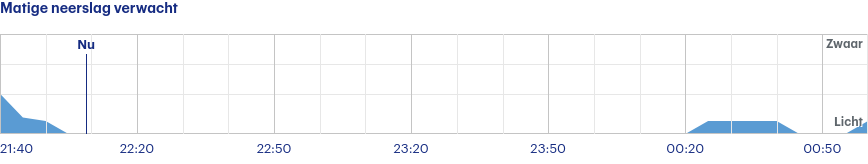
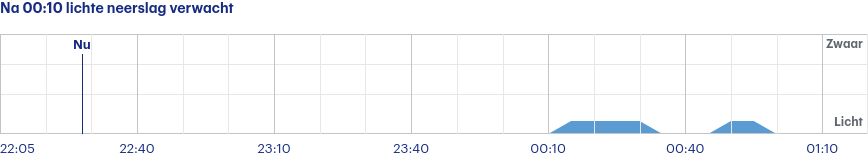
Latest scraping buienradar: Tue Aug  8 20:23:56 UTC 2023

diff --git a/scrapes/buienradar/buienradar-jette-3-uur.md b/scrapes/buienradar/buienradar-jette-3-uur.md
@@ -1,4 +1,4 @@
-Matige neerslag verwacht
+Na 00:10 lichte neerslag verwacht
 
 ![](buienradar-jette-3-uur.png)
 
